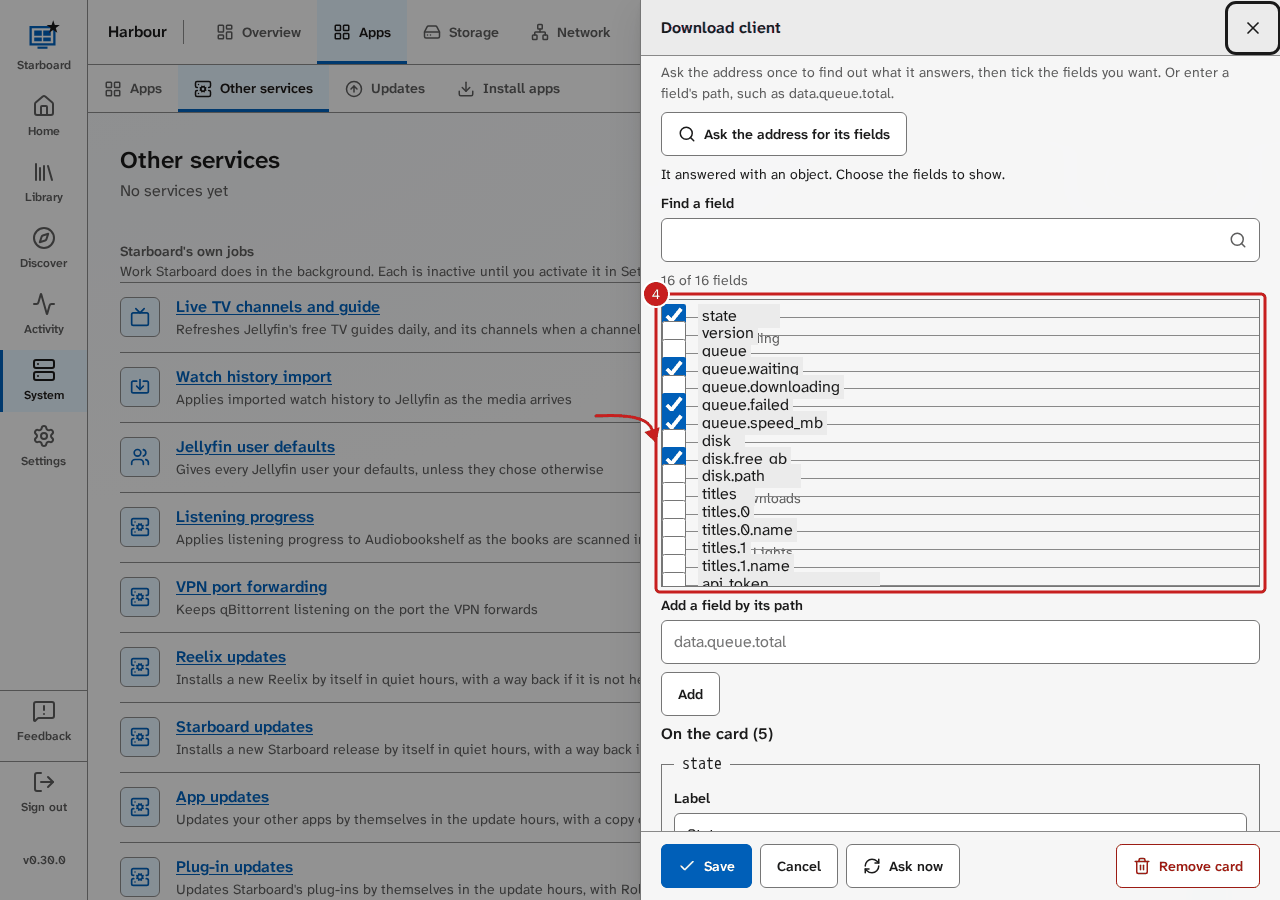
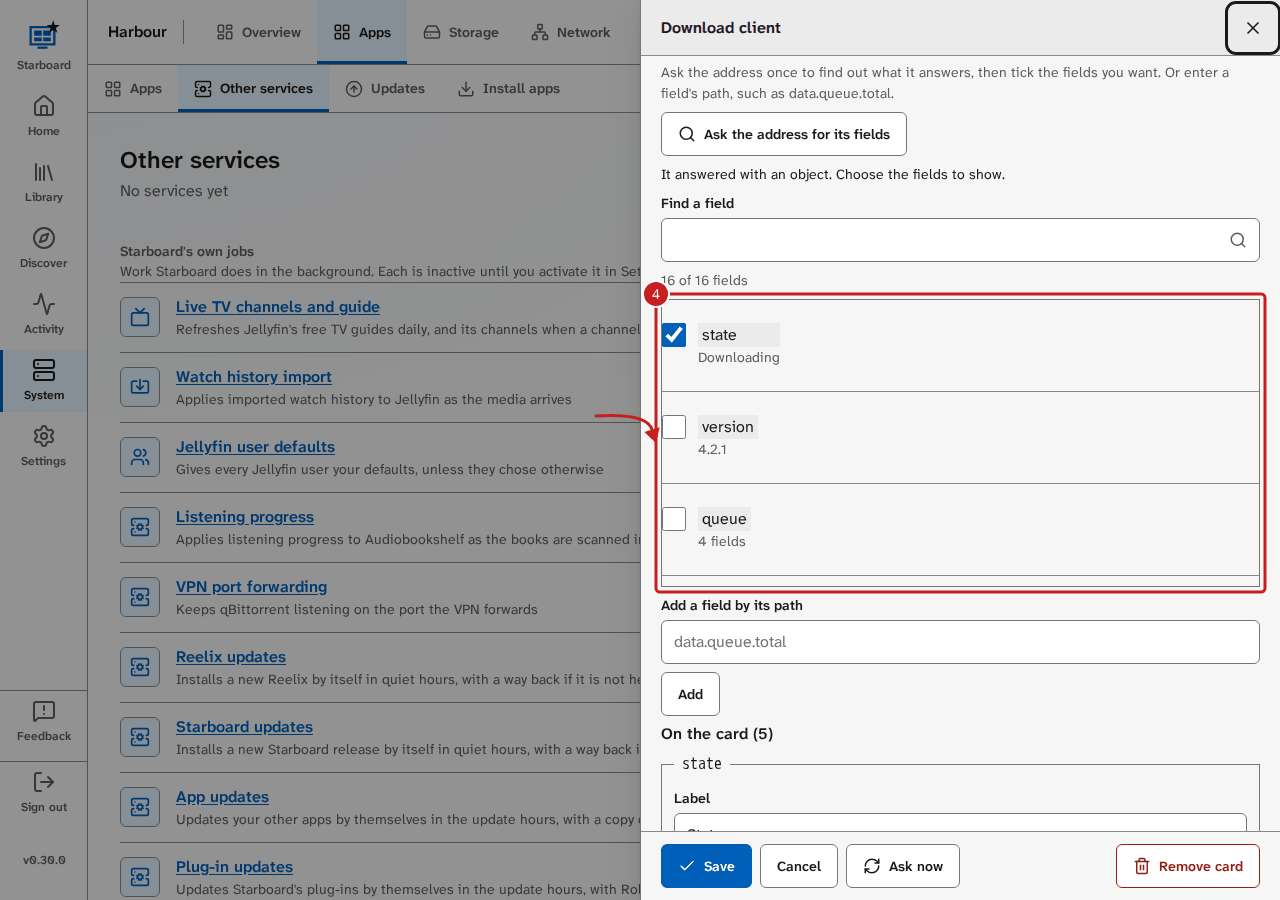
Custom card: retake pictures, tighter a11y step, list rows keep their full size

Changed region(s): [[0.5, 0.3422, 0.9688, 0.6533], [0.6875, 0.6222, 0.9688, 0.6533]]

diff --git a/web/css/apps.css b/web/css/apps.css
@@ -64,7 +64,6 @@
 /* Custom cards (DASH-555): the fields an address answers with, to tick, and each chosen field's own settings. */
 .json-card__choices { max-height: 18rem; overflow: auto; border: 1px solid var(--color-border); }
 .json-card__choices .check__text { display: grid; gap: 0; }
-.json-card__choices .row { padding-block: var(--space-1); min-height: 0; }
 .json-card__field { border: 1px solid var(--color-border); padding: var(--space-3); margin: 0; min-inline-size: 0; }
 .json-card__field legend { padding-inline: var(--space-2); font-family: var(--font-mono, ui-monospace, monospace); overflow-wrap: anywhere; }
 .json-card__facts dd { overflow-wrap: anywhere; }
